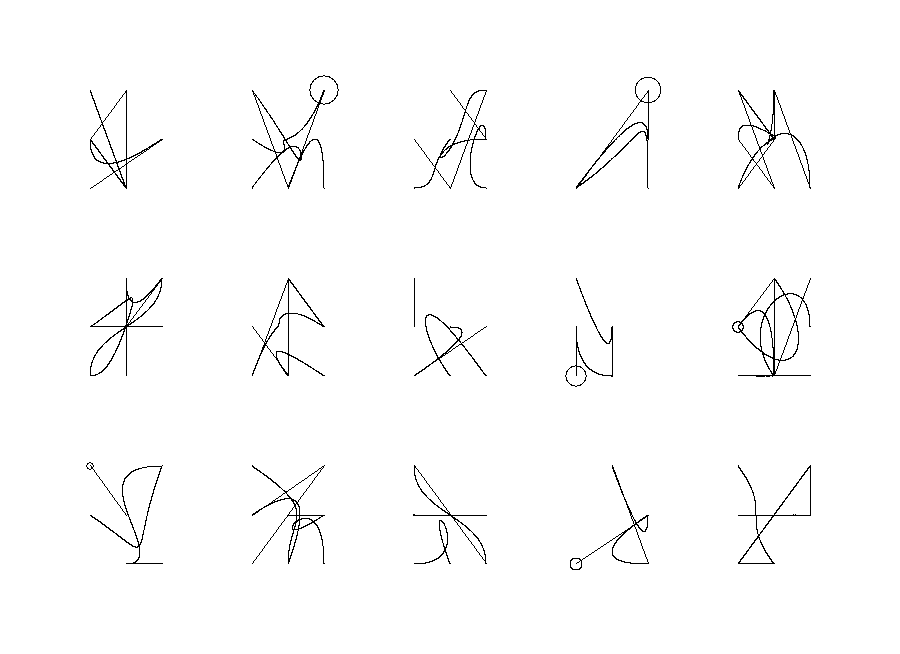
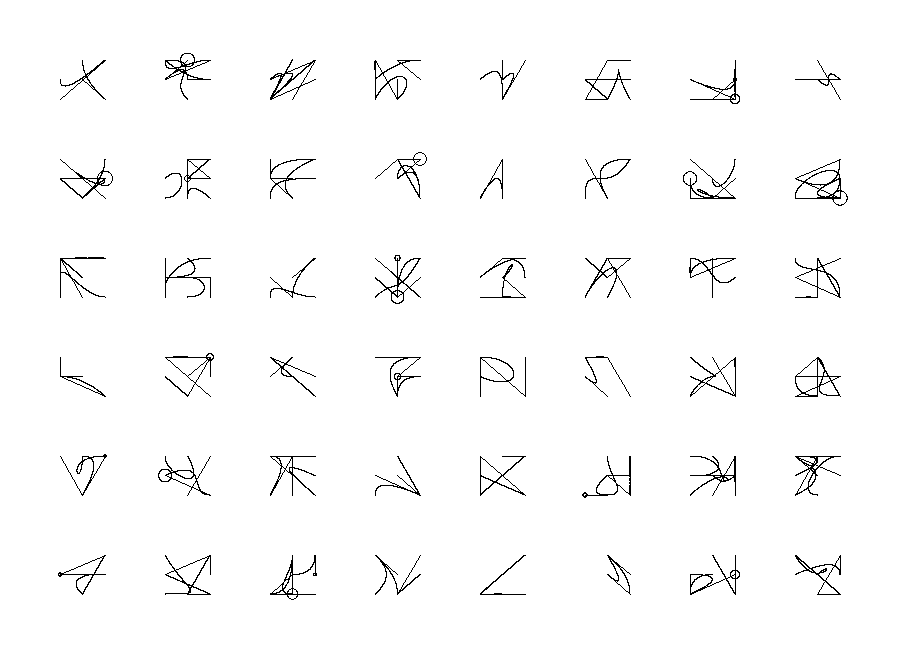
Better runes

diff --git a/runes.py b/runes.py
@@ -15,10 +15,10 @@ height = 218
 
 paths = []
 
-rc = 5
-cc = 3
+rc = 8
+cc = 6
 
-m = 30
+m = 20
 bw = (width-(rc+1)*m)/rc
 bh = (height-(cc+1)*m)/cc
 
@@ -34,7 +34,7 @@ for i in range(cc):
             p4 = b[3]
             p3 = b[4]
 
-            paths.append(bezier(b[:random.randint(2, 5)]))
+            paths.append(bezier(b[:random.randint(2, 4)]))
             paths.append([p1, p2])
 
             if random.random() > 0.85:
